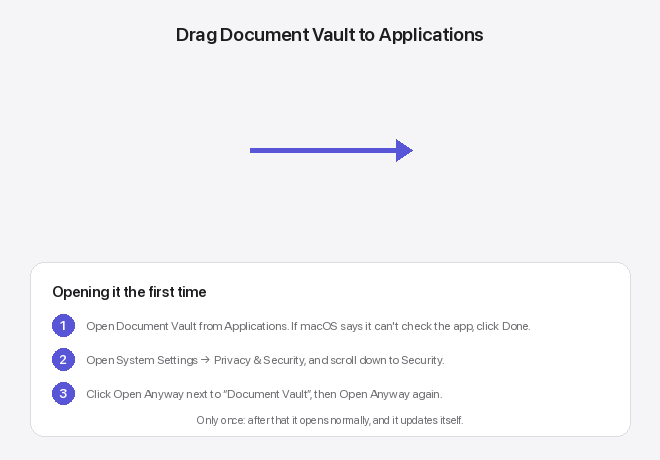
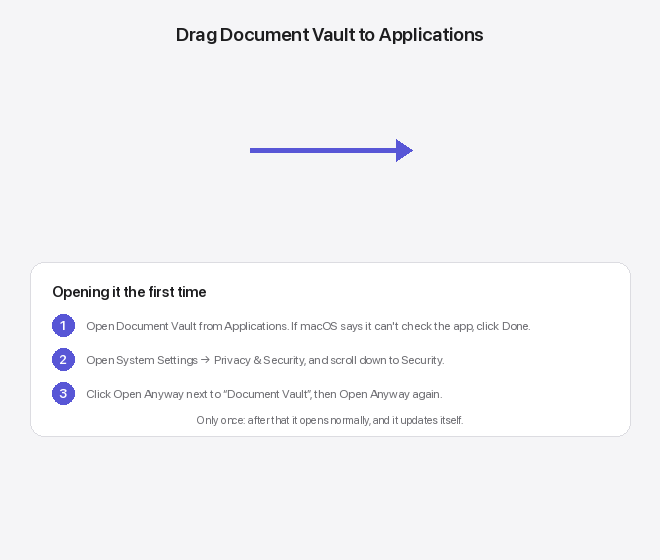
DMG window taller, so the three first-open steps show even with Finder's tab and status bars

diff --git a/packaging/macos/make_dmg_background.py b/packaging/macos/make_dmg_background.py
@@ -8,7 +8,7 @@ from pathlib import Path
 from PIL import Image, ImageDraw, ImageFont
 
 HERE = Path(__file__).parent
-W, H = 660, 460  # the window's size, in points
+W, H = 660, 560  # the window's size, in points (room below for Finder's tab and status bars)
 INK, SOFT, ACCENT, PAPER = (29, 29, 31), (110, 110, 115), (88, 86, 214), (245, 245, 247)
 
 
@@ -31,7 +31,7 @@ def draw(scale: int) -> Image.Image:
     d.line([(s(250), y), (s(400), y)], fill=ACCENT, width=s(5))
     d.polygon([(s(412), y), (s(396), y - s(11)), (s(396), y + s(11))], fill=ACCENT)
     # the first time
-    d.rounded_rectangle([s(30), s(262), s(W - 30), s(H - 24)], radius=s(14), fill=(255, 255, 255), outline=(220, 220, 225), width=max(1, s(1)))
+    d.rounded_rectangle([s(30), s(262), s(W - 30), s(436)], radius=s(14), fill=(255, 255, 255), outline=(220, 220, 225), width=max(1, s(1)))
     d.text((s(52), s(282)), "Opening it the first time", font=font(s(15), "Semibold"), fill=INK)
     steps = [
         "Open Document Vault from Applications. If macOS says it can't check the app, click Done.",
@@ -43,7 +43,7 @@ def draw(scale: int) -> Image.Image:
         d.ellipse([s(52), top, s(74), top + s(22)], fill=ACCENT)
         d.text((s(63), top + s(11)), str(i + 1), font=font(s(13), "Semibold"), fill=(255, 255, 255), anchor="mm")
         d.text((s(86), top + s(11)), step, font=font(s(12.5)), fill=SOFT, anchor="lm")
-    d.text((s(W / 2), s(H - 40)), "Only once: after that it opens normally, and it updates itself.",
+    d.text((s(W / 2), s(420)), "Only once: after that it opens normally, and it updates itself.",
            font=font(s(11.5)), fill=SOFT, anchor="mm")
     return image
 
